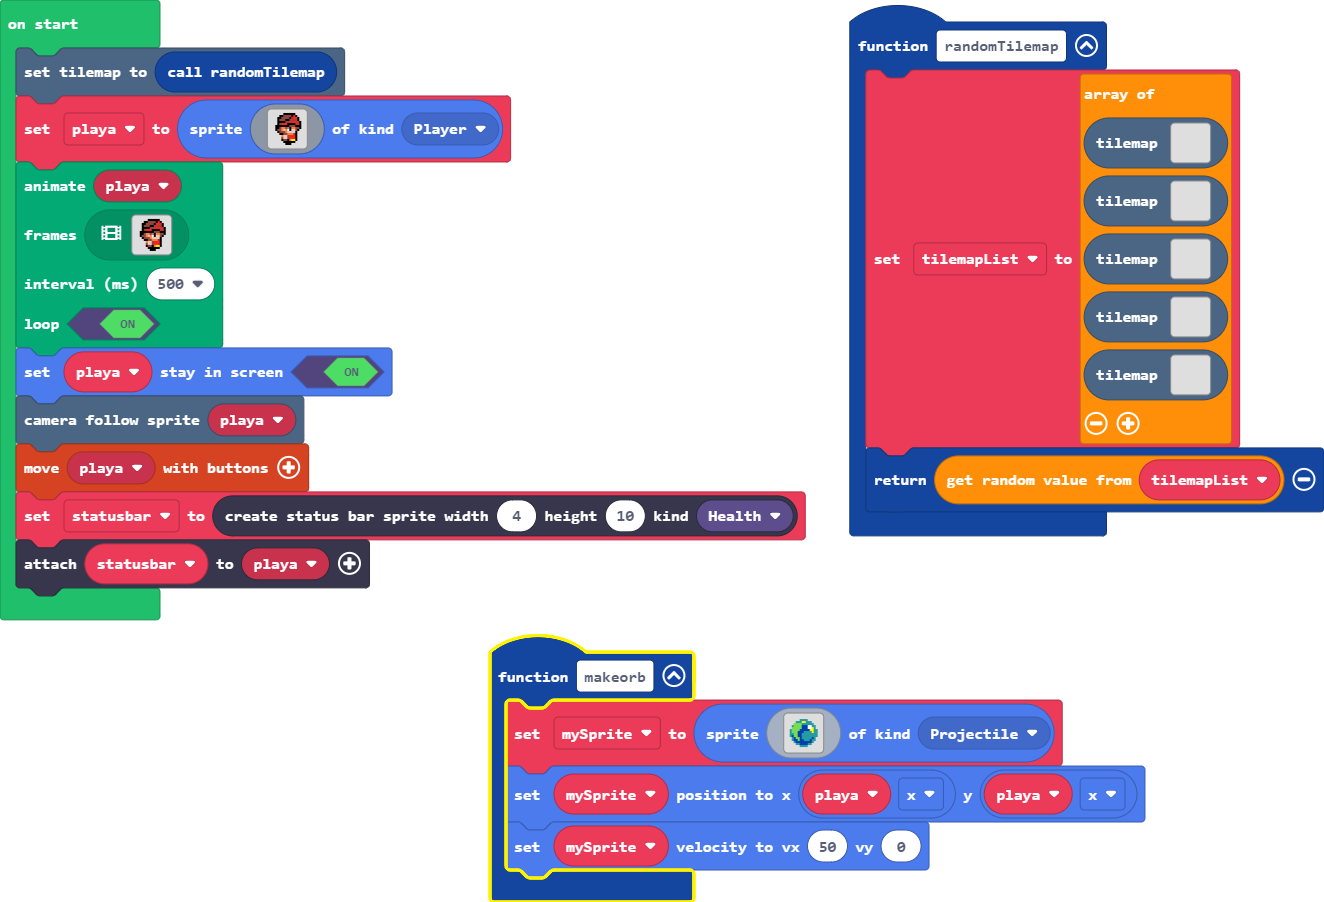
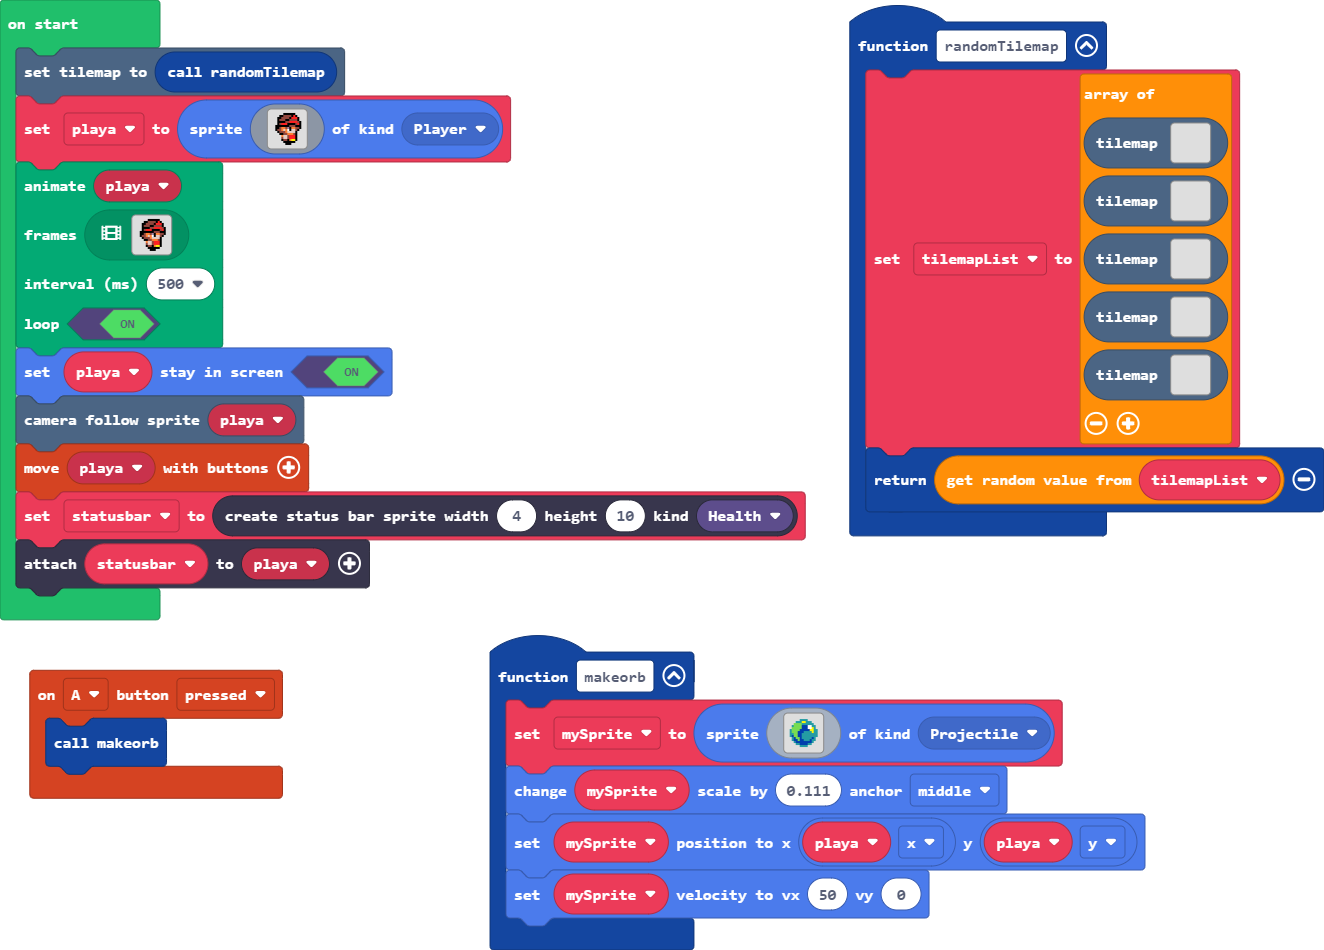
Update main.blocks, main.ts, tilemap.g.jres, tilemap.g.ts

Changed region(s): [[0.0, 0.0, 1.0, 0.8692], [0.3716, 0.6519, 0.8671, 1.0]]

diff --git a/tilemap.g.ts b/tilemap.g.ts
@@ -1,5 +1,7 @@
 // Auto-generated code. Do not edit.
 namespace myTiles {
+    //% fixedInstance jres blockIdentity=images._tile
+    export const transparency16 = image.ofBuffer(hex``);
 
     helpers._registerFactory("tilemap", function(name: string) {
         switch(helpers.stringTrim(name)) {
@@ -98,6 +100,13 @@ namespace myTiles {
 . . . . . . . . . . . . . . . . 
 . . . . . . . . . . . . . . . . 
 `, [], -Infinity);
+        }
+        return null;
+    })
+
+    helpers._registerFactory("tile", function(name: string) {
+        switch(helpers.stringTrim(name)) {
+            case "transparency16":return transparency16;
         }
         return null;
     })

diff --git a/main.ts b/main.ts
@@ -17,9 +17,13 @@ function makeorb () {
         . . . . . . 6 6 6 6 . . . . . . 
         . . . . . . . . . . . . . . . . 
         `, SpriteKind.Projectile)
-    mySprite.setPosition(playa.x, playa.x)
+    mySprite.changeScale(0.111, ScaleAnchor.Middle)
+    mySprite.setPosition(playa.x, playa.y)
     mySprite.setVelocity(50, 0)
 }
+controller.A.onEvent(ControllerButtonEvent.Pressed, function () {
+    makeorb()
+})
 function randomTilemap () {
     tilemapList = [
     tilemap`level1`,
